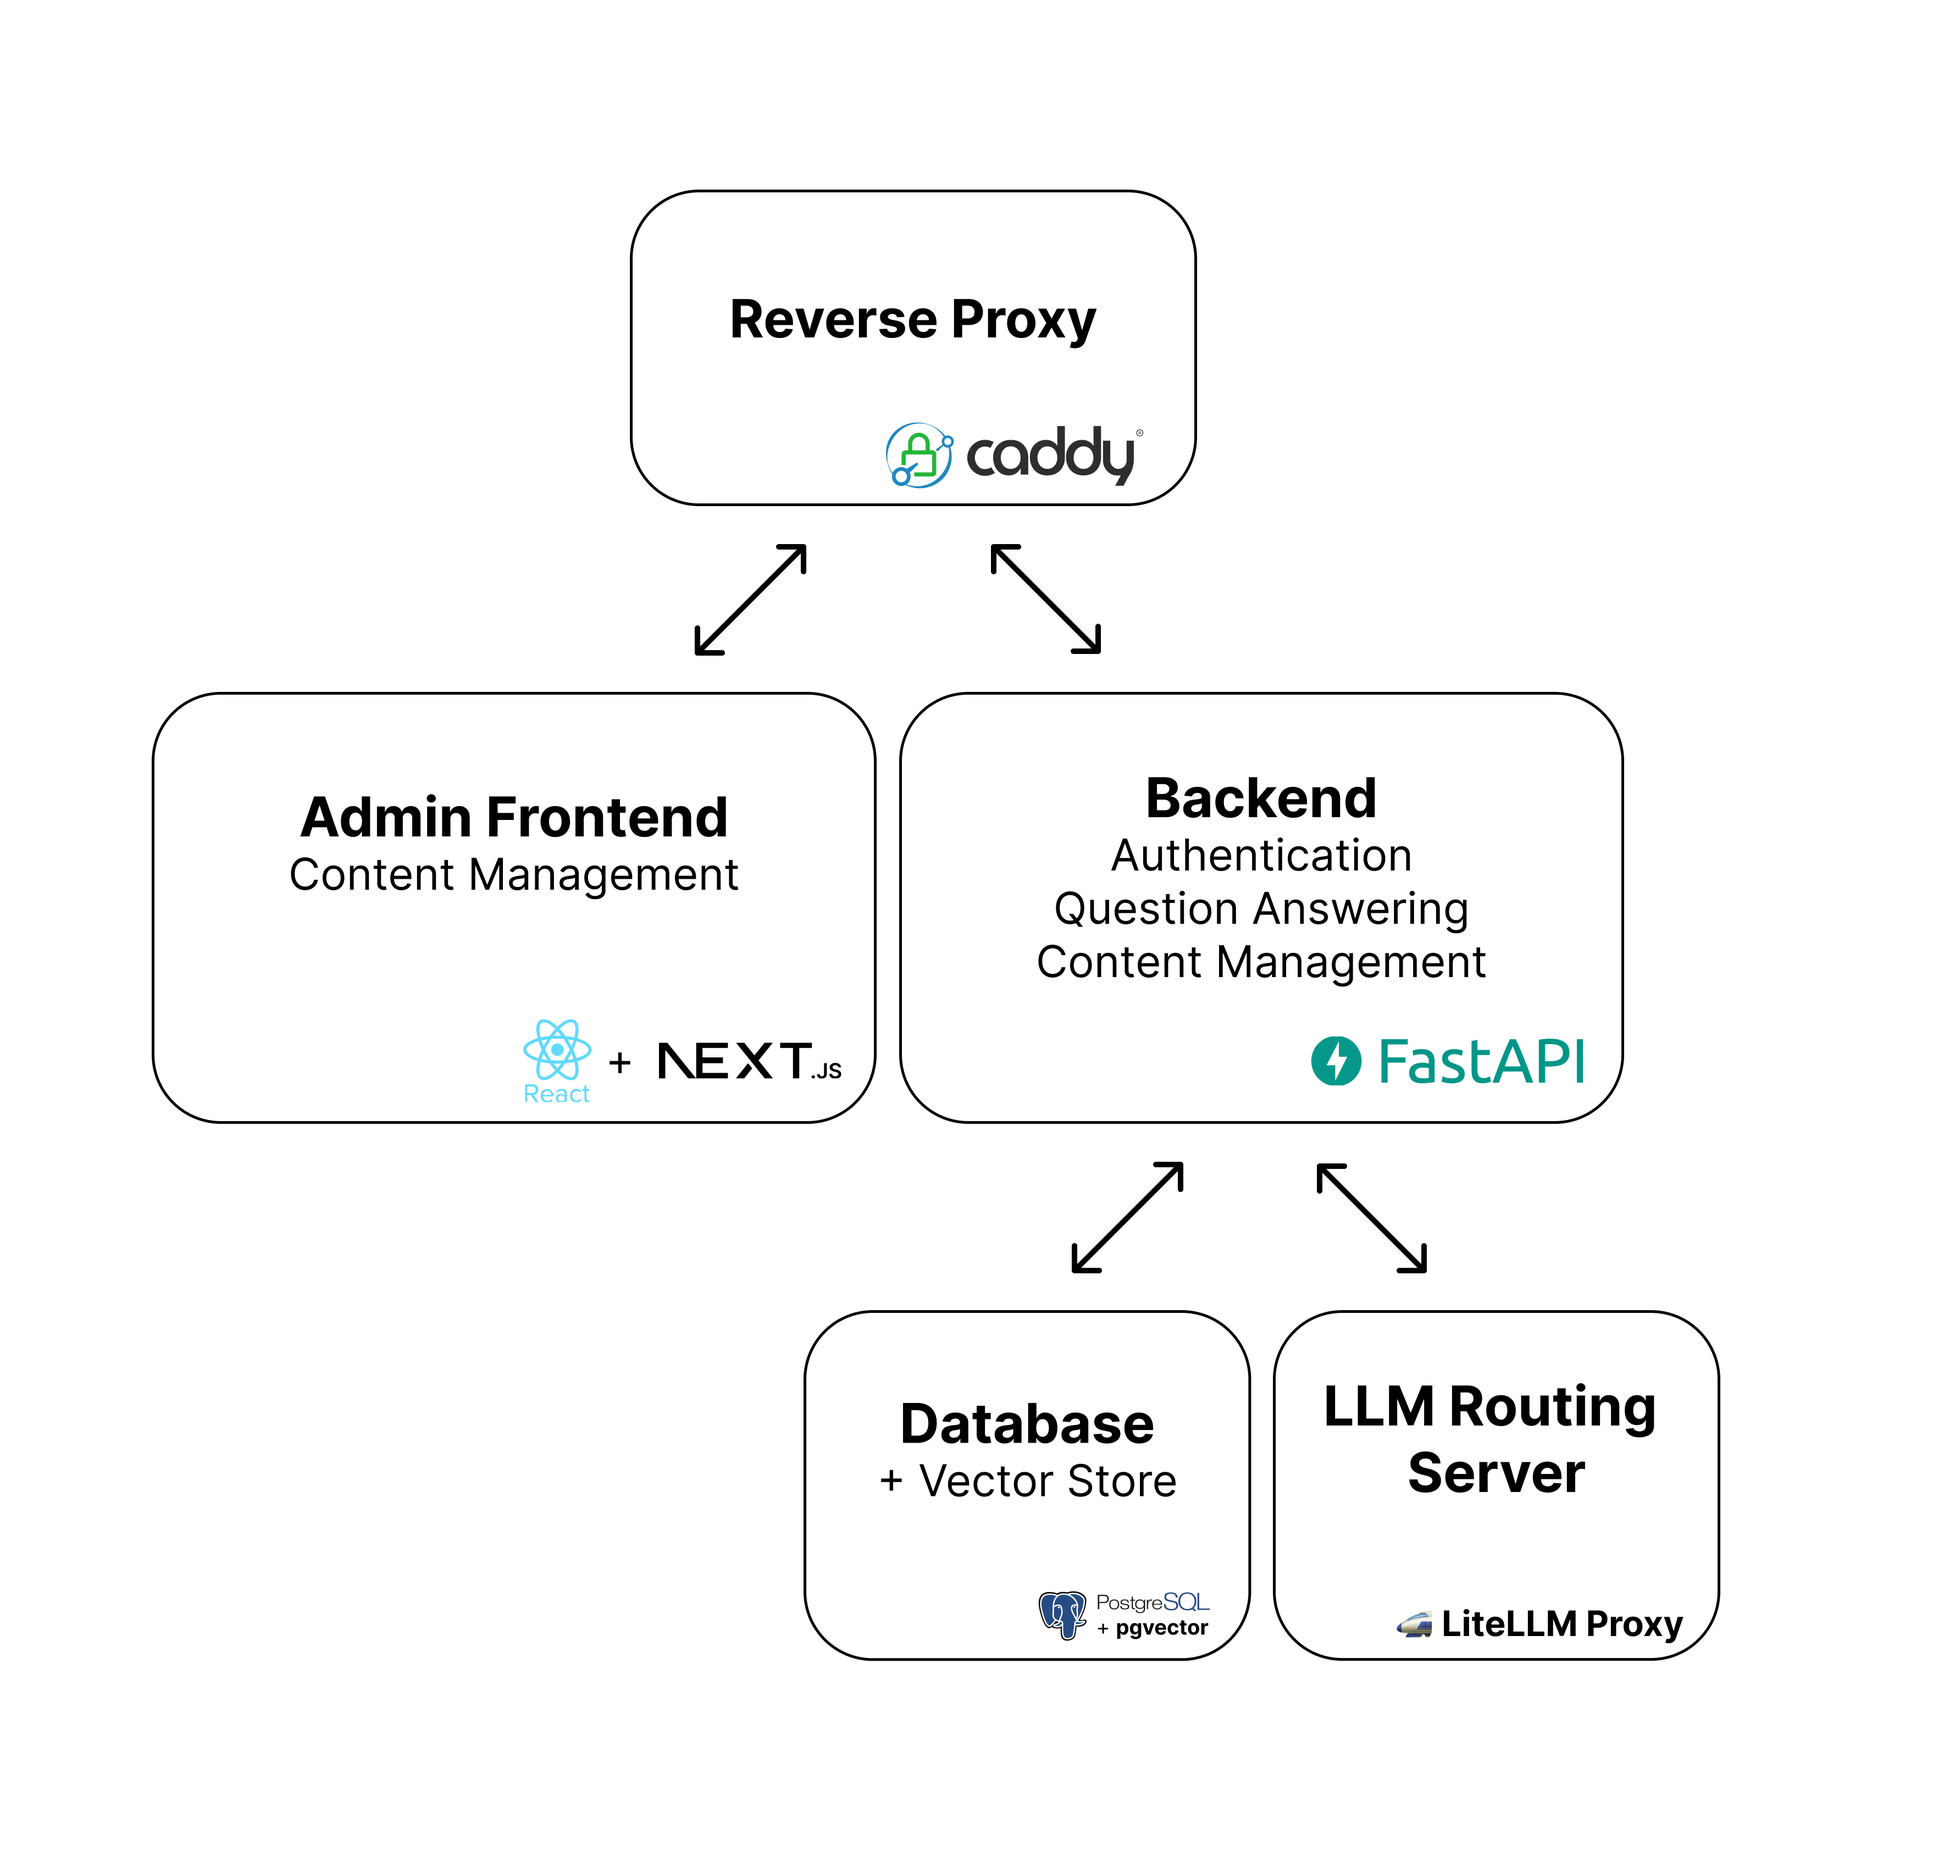
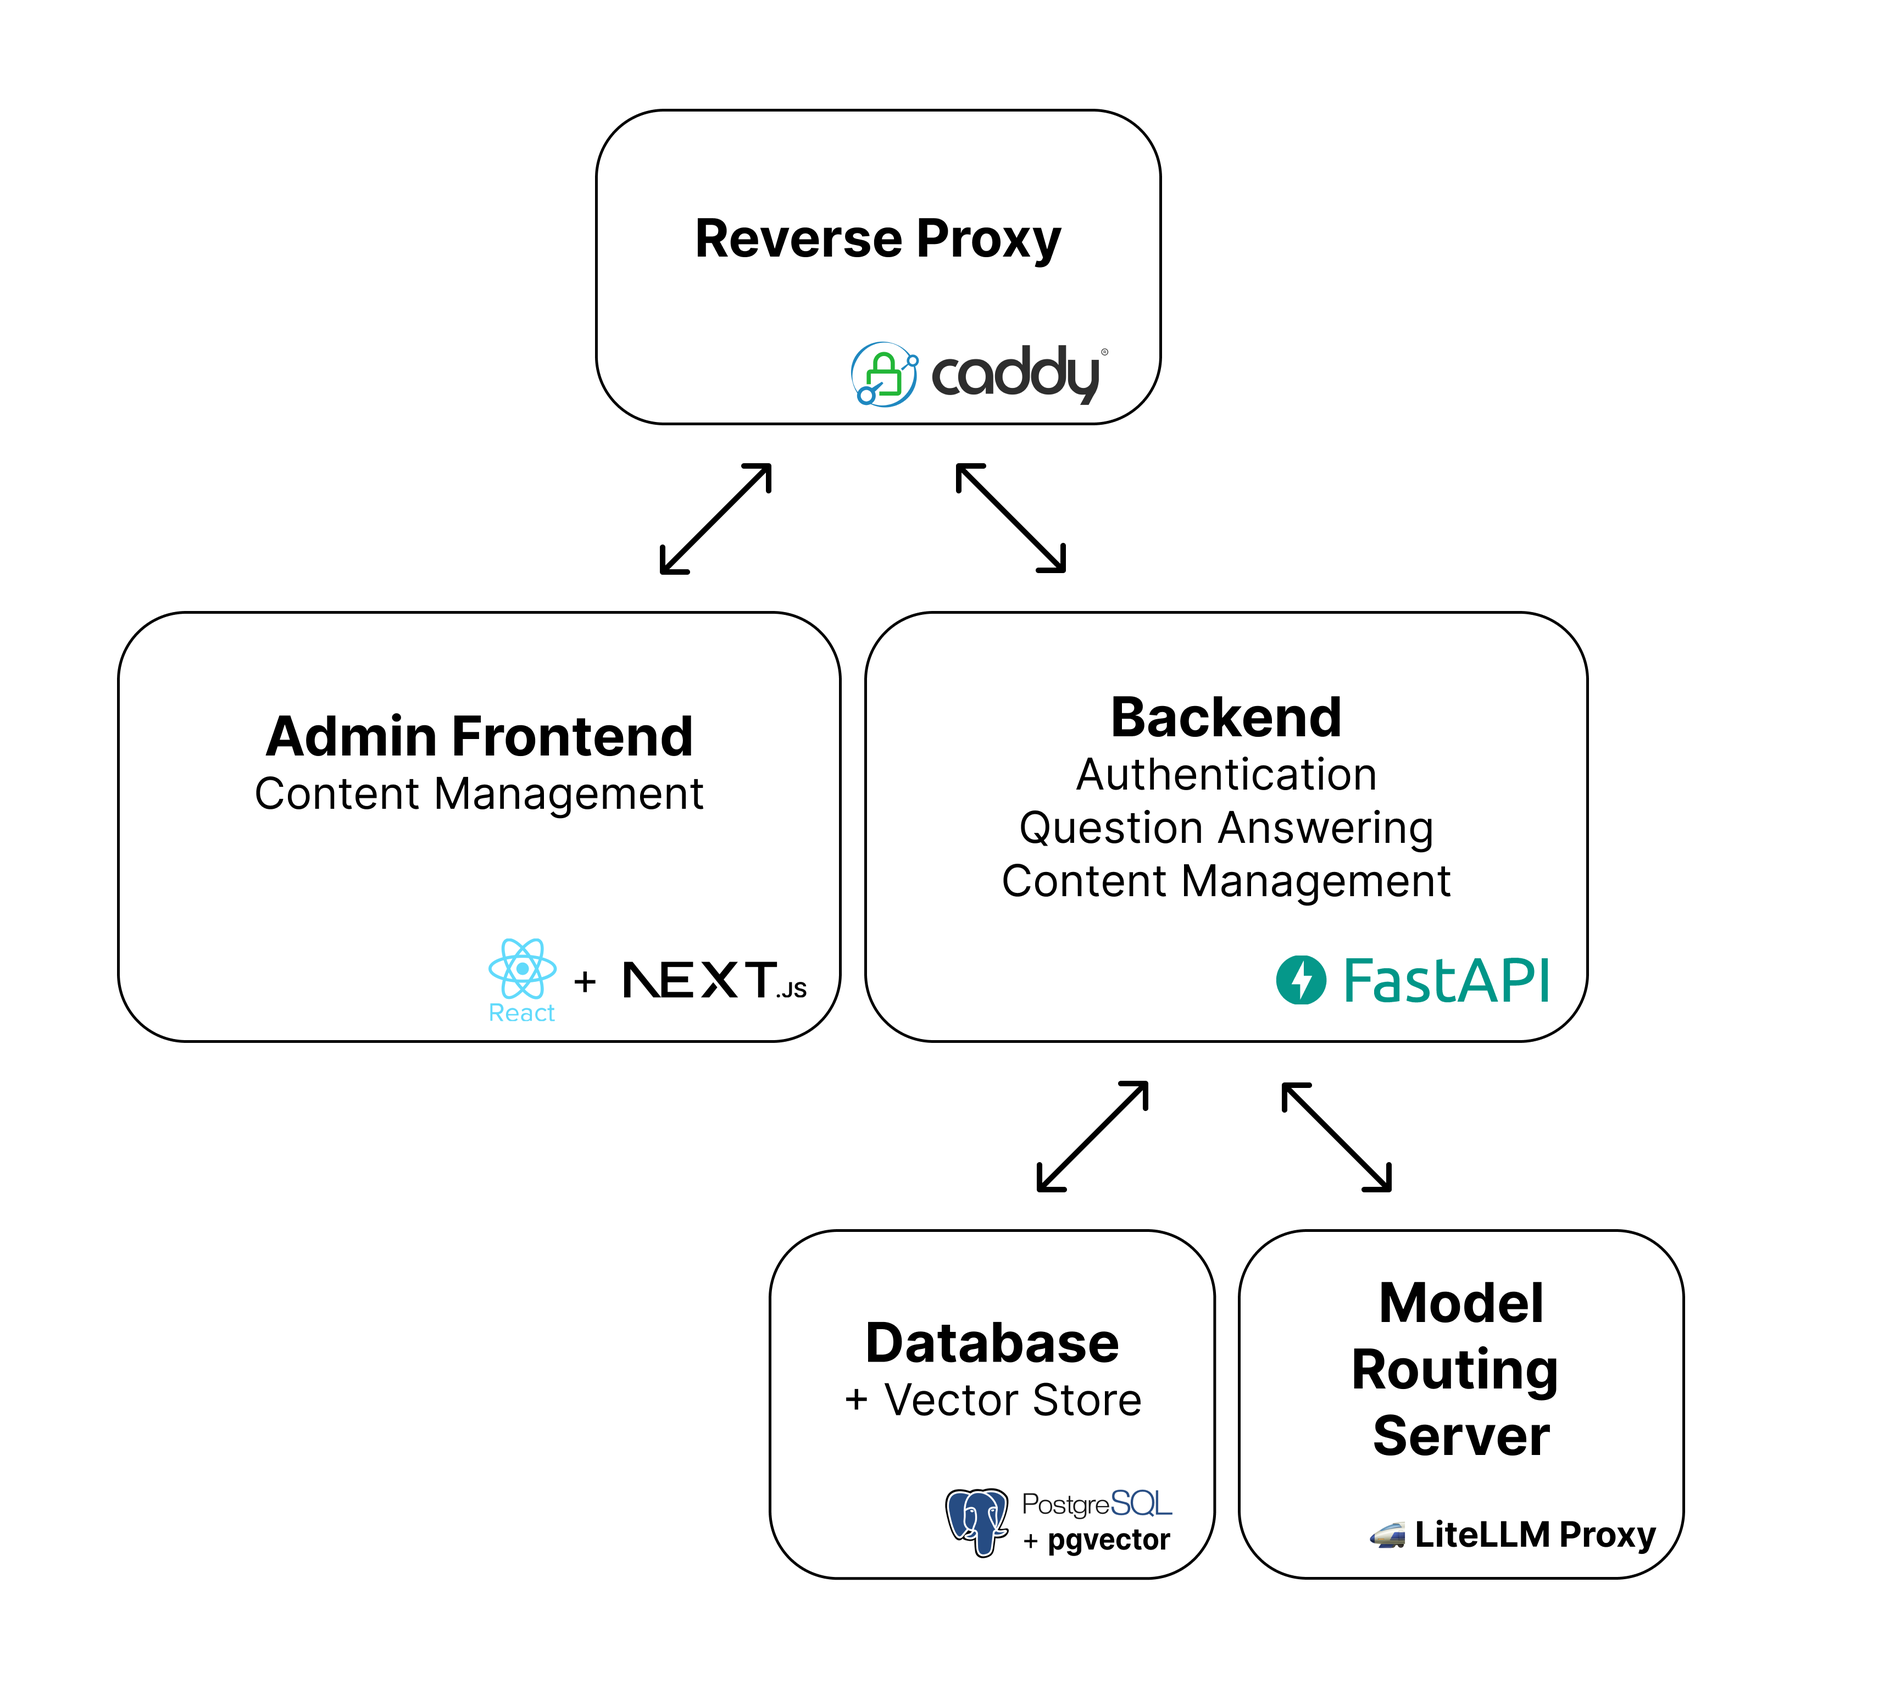
Mkdocs update (#153)
* Reorganise "components" into single "Features" page

* standardise "Coming Soon" instances

* move coming soon to titles for clarity

* Rename "Features" to "Components" (was confusing)

* Remove triaging card and empty page

* Change right side "Table of contents" to say "On this page" for clarity

* reorganise `mkdocs.yml` to group things together

* Add descriptions and update language to "User-facing Components" and "Internal Components"

* Cleanup home page

* change strong font style for light vs dark modes

* use aspect ratio as per tanmay's suggestion

* Separate "Integrations" as a different tab

* Fix broken links

* Categorise components in left table of contents

* update architecture diagram

---------

diff --git a/docs/stylesheets/extra.css b/docs/stylesheets/extra.css
@@ -1,9 +1,11 @@
 :root {
   --md-primary-fg-color: #263568;
+  --md-typeset-strong-color--light: #263568;
+  --md-typeset-strong-color--dark: #9dc1e0;
 }
 .md-header__button.md-logo img {
-  height: 35px; /* Replace with the height you want */
-  width: 210px; /* Replace with the width you want */
+  height: 43px;
+  aspect-ratio: 1200 / 214;
 }
 .component-title {
   color: #5480cb;
@@ -17,7 +19,11 @@
   color: #9dc1e0;
 }
 strong {
-  color: #5480cb;
+  color: var(--md-typeset-strong-color--light);
+}
+
+[data-md-color-scheme="slate"] strong {
+  color: var(--md-typeset-strong-color--dark);
 }
 
 .md-ellipsis:hover {

diff --git a/docs/index.md b/docs/index.md
@@ -1,6 +1,5 @@
 <pre align="center" style="text-align:center; font-size: 1vw; background:none;">
 <img src="./images/logo-light.png#only-dark" alt="logo-light" width="600"/><img src="./images/logo-dark.png#only-light" alt="logo-dark" width="600"/>
-<br>
 </pre>
 
 <h3 align="center" >On-demand answers to questions from your knowledge base</h3>
@@ -9,7 +8,7 @@
 
 ---
 
-<div  class="component-title" >Features </div>
+## Features
 
 <div class="grid cards"  markdown>
 
@@ -18,19 +17,19 @@
   Implements guardrailed AI that is ethical, transparent, and secure
 
 - <span  class="secondary-color big-font">:material-translate:</span><br>
-  <strong>Local Language Support</strong> <br>
-  Multilingual model support to enhance accessibility and experience (coming soon...)
+  <strong>Local Languages (Coming Soon)</strong> <br>
+  Multilingual model support to enhance accessibility and experience
 
 - <span class="secondary-color big-font">:material-docker:</span><br>
   <strong >Scalable & Easy to Deploy</strong><br>
   Containerized app that can be deployed anywhere with minimal setup
 
 - <span class="secondary-color big-font">:material-microphone:</span><br>
-  <strong >Voice support</strong> <br>
-  Ask questions and receive answers using voice memos (coming soon...)
+  <strong >Voice (Coming Soon)</strong> <br>
+  Ask questions and receive answers using voice memos
 
 </div>
-<br>
+
 <strong >:octicons-check-16: LLM-powered search</strong>: Answers questions to database content using LLM embeddings.
 
 <strong >:octicons-check-16: LLM responses</strong> : Craft a custom reponse to users using LLM chat
@@ -38,26 +37,25 @@
 <strong >:octicons-check-16: Deploy on WhatsApp</strong> : Easily deploy using WhatsApp Business API
 
 <strong >:octicons-check-16: Manage content</strong> : Use the Admin App to add, edit, and delete content in the database
-<br><br>
+
+<br>
 [See Full Roadmap :octicons-arrow-right-24:](./roadmap.md){ .md-button}
-
----
-
+<br>
+<br>
 !!! question "Looking for other features?"
     If you are a developing country government, NGO or a social sector
     organisation, we'd love to hear what features you'd like to see. Raise an
     issue with `[FEATURE REQUEST]` before the title to start the conversation.
-
----
 
 ## Acknowledgements
 
 <img src="./images/google_org.png" alt="google_dot_org" width=200/><br>
 The project is funded by Google.org through the
 <a href="https://globalgoals.withgoogle.com/globalgoals/" class="link-home">AI for Global Goals</a> grant.
-<br><br>
+
 <img src="./images/idi_dark.png#only-light" alt="idi_org" width=200 style="margin-left:-25px" /><img src="./images/idi_light.png#only-dark" alt="idi_org" width=200 style="margin-left:-25px" /><br>
 Built and powered by IDinsight.
+
 <p class="footer" markdown>IDinsight uses data and evidence to help leaders combat poverty worldwide. Our collaborations deploy a large analytical toolkit to help clients design better policies, rigorously test what works, and use evidence to implement effectively at scale. We place special emphasis on using the right tool for the right question, and tailor our rigorous methods to the real-world constraints of decision-makers. IDinsight works with governments, foundations, NGOs, multilaterals and businesses across Africa and Asia. We work in all major sectors including health, education, agriculture, governance, digital ID, financial access, and sanitation. We have offices in Dakar, Lusaka, Manila, Nairobi, New Delhi, Rabat, and Remote.
 <br>
 <br>

diff --git a/docs/components/index.md b/docs/components/index.md
@@ -1,10 +1,14 @@
-# Core Components
+# Components
 
-There are 3 main components in Ask-A-Question.
+In this section you can find the different components within AAQ.
+
+## User-facing Components
+
+There are 2 main components in Ask-A-Question.
 
 <div class="grid cards" markdown>
 
--   :material-api:{ .lg .middle .red} __The Question-Answering Service__
+- :material-api:{ .lg .middle .red} __The Question-Answering Service__
 
     ---
 
@@ -13,22 +17,37 @@ There are 3 main components in Ask-A-Question.
 
     [:octicons-arrow-right-24: More info](./qa-service/index.md)
 
--   :material-react:{ .lg .middle } __The Admin App__
+- :material-react:{ .lg .middle } __The Admin App__
 
     ---
 
-    Manage content in the database. Use the `playground` to test the service.
-    View dashboard on service performance and usage.
+    Manage content in the database. Test the service in the playground.
+    Explore usage dashboards.
 
     [:octicons-arrow-right-24: More info](./admin-app/index.md)
 
--   :material-directions-fork:{ .lg .middle } __Triaging Service (Coming Soon!)__
+</div>
+
+## Internal Components
+
+<div class="grid cards" markdown>
+
+- :material-view-dashboard:{ .lg .middle } __Model Proxy Server__
 
     ---
 
-    Triage incoming messages.
+    AAQ uses the [LiteLLM Proxy Server](https://litellm.vercel.app/docs/simple_proxy) for
+    managing LLM and embedding calls, allowing you to use any LiteLLM supported model (including self-hosted ones).
 
-    [:octicons-arrow-right-24: More info](#)
+    [:octicons-arrow-right-24: More info](./litellm-proxy/index.md)
 
+- :material-format-align-middle:{ .lg .middle } __Custom Align Score Model__
+
+    ---
+
+    _(Optional)_ Use a custom dockerised [AlignScore](https://arxiv.org/abs/2305.16739) model to catch
+    hallucination and check if LLM response is consistent with the context.
+
+    [:octicons-arrow-right-24: More info](./align-score/index.md)
 
 </div>

diff --git a/docs/blog/posts/alignment-check.md b/docs/blog/posts/alignment-check.md
@@ -19,7 +19,7 @@ our other checks.
 
 ## Checking alignment of LLM Response
 
-Despite clear prompting, LLMs hallucinate. And sometimes use their large training 
+Despite clear prompting, LLMs hallucinate. And sometimes use their large training
 set to answer a question instead of solely using the context provided.
 
 One of the endpoints that AAQ presents is
@@ -37,16 +37,16 @@ are consitent with the content it is meant to use to generate it.
 We can use GPT4-turbo and it does remarkably well on our test data. But there
 may be reasons - from data governance and privacy rules to costs - for not sending the data
 to OpenAI. One option is to use your own
-[locally hosted LLM]("../../other-components/self_hosted_llms/index.md").
+[locally hosted LLM]("../../components/self_hosted_llms/index.md").
 
-The other option is to use [AlignScore](../../other-components/align-score/index.md), a model
-built specifically for this use case. It can be deployes as another container that 
-exposes an endpoint that AAQ can call to check consistency. 
+The other option is to use [AlignScore](../../components/align-score/index.md), a model
+built specifically for this use case. It can be deployes as another container that
+exposes an endpoint that AAQ can call to check consistency.
 
-See [docs](../../other-components/align-score/deployment.md) for how to do this.
+See [docs](../../components/align-score/deployment.md) for how to do this.
 
 ## Doc references
 
-- [Locally hosted LLMs]("../../other-components/self_hosted_llms/index.md")
+- [Locally hosted LLMs]("../../components/self_hosted_llms/index.md")
 - [LLM Response](../../components/qa-service/llm-response.md)
-- [AlignScore](../../other-components/align-score/index.md)
+- [AlignScore](../../components/align-score/index.md)

diff --git a/docs/components/litellm-proxy/index.md b/docs/components/litellm-proxy/index.md
@@ -1,10 +1,14 @@
 # LLM Proxy Server
 
+## What is it?
+
 AAQ uses the [LiteLLM Proxy Server](https://litellm.vercel.app/docs/simple_proxy) for
 managing LLM calls, allowing you to use any LiteLLM [supported model](https://docs.litellm.ai/docs/providers) including self-hosted ones.
 
 This proxy server runs as a separate Docker container with configs read from a `config.yaml` file, where you can set the appropriate model
 names and endpoints for each LLM task.
+
+## Example config
 
 You can see an example `litellm_proxy_config.yaml` file below. In our backend code, we refer to the models by their custom task `model_name` (e.g. "summarize"), but
 which actual LLM model each call is routed to is set here.

diff --git a/docs/integrations/index.md b/docs/integrations/index.md
@@ -1,0 +1,24 @@
+# Integrations
+
+In this section you can find the different integrations AAQ supports so far.
+
+<div class="grid cards" markdown>
+
+- :material-chat-question:{ .lg .middle } __Chat Managers__
+
+    ---
+
+    You can use the AAQ endpoints through various chat managers.
+
+    [:octicons-arrow-right-24: More info](./chat_managers/index.md)
+
+- :material-database:{ .lg .middle .red} __Direct WhatsApp Connector__
+
+    ---
+
+    The direct WhatsApp connector allows you to send and receive messages
+    using the WhatsApp Business API without a chat manager.
+
+    [:octicons-arrow-right-24: More info](./whatsapp/index.md)
+
+</div>

diff --git a/docs/components/admin-app/index.md b/docs/components/admin-app/index.md
@@ -21,14 +21,14 @@
 
     [:octicons-arrow-right-24: More info](./playground.md)
 
--   :material-view-dashboard:{ .lg .middle } __Content Manager's Dashboard (Coming Soon!)__
+-   :material-view-dashboard:{ .lg .middle } __Content Manager's Dashboard (Coming Soon)__
 
     ---
 
     Allows you to see statistices like which content is most frequently being
     used, or the feedback from users on responses provided by the service.
 
--   :material-monitor-dashboard: __Engineer's Dashboard (Coming Soon!)__
+-   :material-monitor-dashboard: __Engineer's Dashboard (Coming Soon)__
 
     ---
 

diff --git a/docs/integrations/whatsapp/index.md b/docs/integrations/whatsapp/index.md
@@ -1,0 +1,21 @@
+# WhatsApp Connector
+
+The WhatsApp connector allows you to directly send and receive messages using the WhatsApp Business API.
+
+<div class="grid cards" markdown>
+
+-   :octicons-gear-16:{ .lg .middle } __Setup__
+
+    ---
+
+    Setup the webhook.
+
+    [:octicons-arrow-right-24: More info](./setup.md)
+
+-   :material-test-tube:{ .lg .middle } __Testing__
+
+    ---
+
+    Connect to your Meta Business account and test.
+
+    [:octicons-arrow-right-24: More info](./testing.md)

diff --git a/docs/deployment/quick-setup.md b/docs/deployment/quick-setup.md
@@ -12,7 +12,7 @@
 variables. If `DOMAIN` is commented out, it defaults to `localhost`.
 
 **Step 4:** If you want to change which LLMs are used, edit `litellm_proxy_config.yaml`.
-See [LiteLLM Proxy Server](../other-components/litellm-proxy/index.md) for more details.
+See [LiteLLM Proxy Server](../components/litellm-proxy/index.md) for more details.
 
 **Step 5:** Run docker-compose
 

diff --git a/docs/components/qa-service/llm-response.md b/docs/components/qa-service/llm-response.md
@@ -57,5 +57,5 @@ sequenceDiagram
 ```
 
 To use AlignScore, AAQ needs access to the AlignScore service. See
-[documentation](../../other-components/align-score/index.md) for how to setup
+[documentation](../../components/align-score/index.md) for how to setup
 the service and configure AAQ to call it.

diff --git a/docs/blog/posts/move-to-litellm-proxy.md b/docs/blog/posts/move-to-litellm-proxy.md
@@ -42,5 +42,5 @@ Potential downsides include:
 
 ## Docs reference
 
-- [LLM Proxy Server](../../other-components/litellm-proxy/index.md)
+- [LLM Proxy Server](../../components/litellm-proxy/index.md)
 - [Dev setup](../../develop/setup.md)

diff --git a/docs/integrations/chat_managers/index.md b/docs/integrations/chat_managers/index.md
@@ -1,3 +1,5 @@
+# Chat Managers
+
 You can use the AAQ endpoints through various chat managers. Below are some examples:
 
 <div class="grid cards" markdown>
